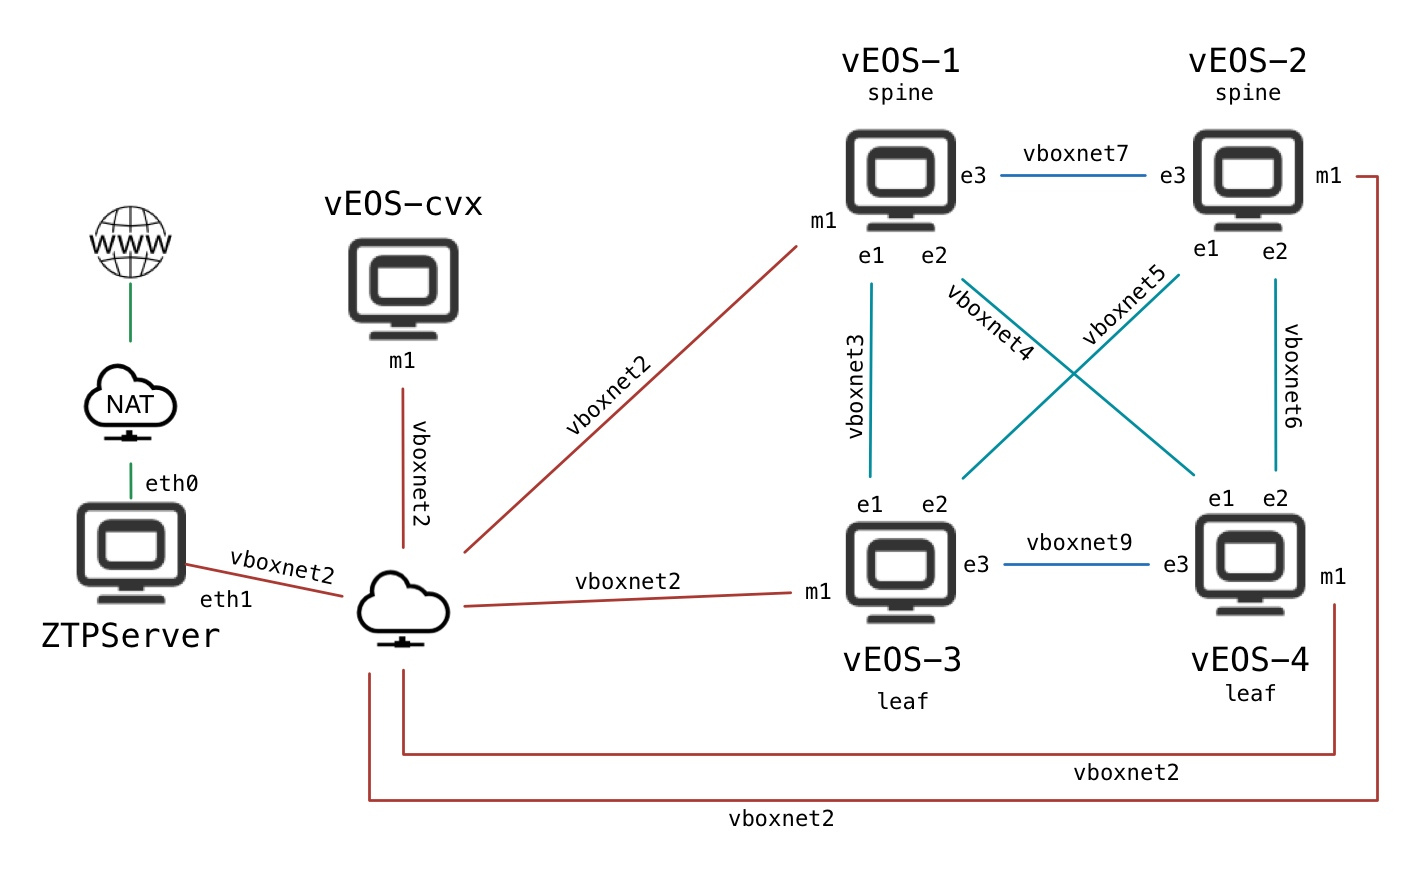
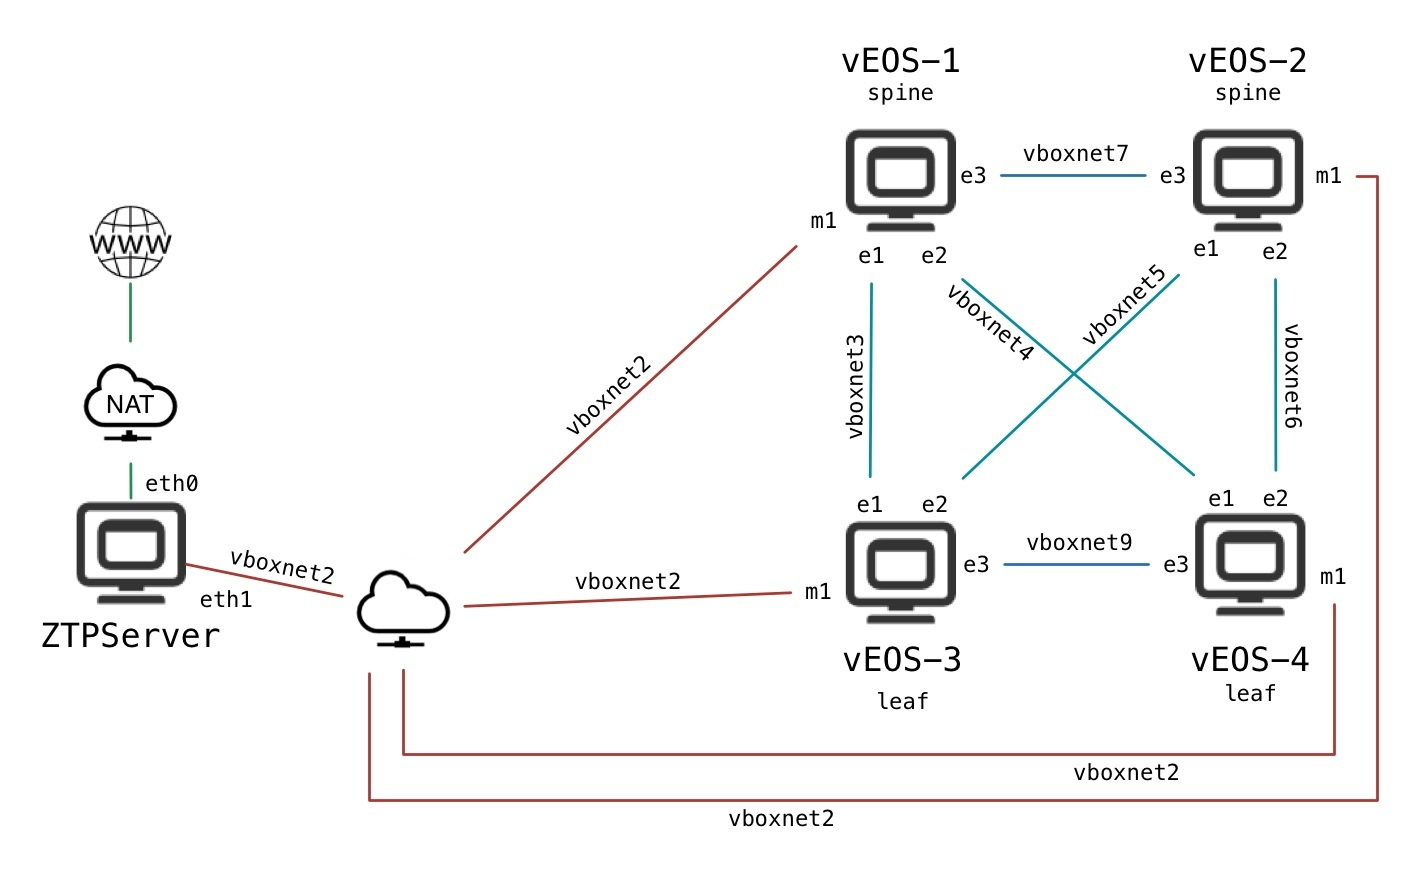
simplified topology

Changed region(s): [[0.2188, 0.2162, 0.3438, 0.4325], [0.2812, 0.4634, 0.3125, 0.6178]]

diff --git a/VirtualBox/README.md b/VirtualBox/README.md
@@ -54,7 +54,7 @@ and setup the virtual networks as depicted in the diagram below.
               - vEOS.vmdk
               - Aboot-veos-2.0.8.iso
     ```
-3. The vEOS.json file contains unique configuration for four vEOS nodes - vEOS-1/2/3/4/cvx as depicted above.
+3. The vEOS.json file contains unique configuration for four vEOS nodes - vEOS-1/2/3/4 as depicted above.
     * You must build the nodes one at a time since each run requires vbox to import the existing ovf/vmdk.
     >**NOTE:** There are times that the vEOS node does not boot properly and gets stuck at the 'starting udev.'  If this occurs, it is best to cancel (ctrl-c) the build and start again.
         * Either run:
@@ -64,7 +64,6 @@ and setup the virtual networks as depicted in the diagram below.
             * ```packer build --only=vEOS2 vEOS.json```
             * ```packer build --only=vEOS3 vEOS.json```
             * ```packer build --only=vEOS4 vEOS.json```
-            * ```packer build --only=vEOS-cvx vEOS.json```
 
 ##Creating vEOS Nodes for VirtualBox (Windows)
 1. Retrieve the packer-veos files [here](https://github.com/arista-eosplus/packer-veos/archive/master.zip) or use ```git clone https://github.com/arista-eosplus/packer-veos.git```
@@ -81,7 +80,7 @@ and setup the virtual networks as depicted in the diagram below.
               - vEOS.vmdk
               - Aboot-veos-2.0.8.iso
     ```
-3. The vEOS.json file contains unique configuration for four vEOS nodes - vEOS-1/2/3/4/cvx as depicted above.
+3. The vEOS.json file contains unique configuration for four vEOS nodes - vEOS-1/2/3/4 as depicted above.
     * You must build the nodes one at a time since each run requires vbox to import the existing ovf/vmdk.
     >**NOTE:** There are times that the vEOS node does not boot properly and gets stuck at the 'starting udev.'  If this occurs, it is best to cancel (ctrl-c) the build and start again.
         * Either run:
@@ -91,4 +90,3 @@ and setup the virtual networks as depicted in the diagram below.
             * ```packer build --only=vEOS2 vEOS-windows.json```
             * ```packer build --only=vEOS3 vEOS-windows.json```
             * ```packer build --only=vEOS4 vEOS-windows.json```
-            * ```packer build --only=vEOS-cvx vEOS-windows.json```

diff --git a/VMware/README.md b/VMware/README.md
@@ -54,7 +54,7 @@ and setup the virtual networks as depicted in the diagram below.
               - vEOS.vmdk
               - Aboot-veos-2.0.8.iso
     ```
-3. The vEOS.json file contains unique configuration for four vEOS nodes - vEOS-1/2/3/4/cvx as depicted above.
+3. The vEOS.json file contains unique configuration for four vEOS nodes - vEOS-1/2/3/4 as depicted above.
     * It requires a non-trivial amount of CPU/memory to turn up all five at the same time.  If you're feeling daring, run:
         * ```packer build vEOS.json```
     * If you would like to build all nodes sequentially, run:
@@ -64,4 +64,3 @@ and setup the virtual networks as depicted in the diagram below.
         * ```packer build --only=vEOS2 vEOS.json```
         * ```packer build --only=vEOS3 vEOS.json```
         * ```packer build --only=vEOS4 vEOS.json```
-        * ```packer build --only=vEOS-cvx vEOS.json```
